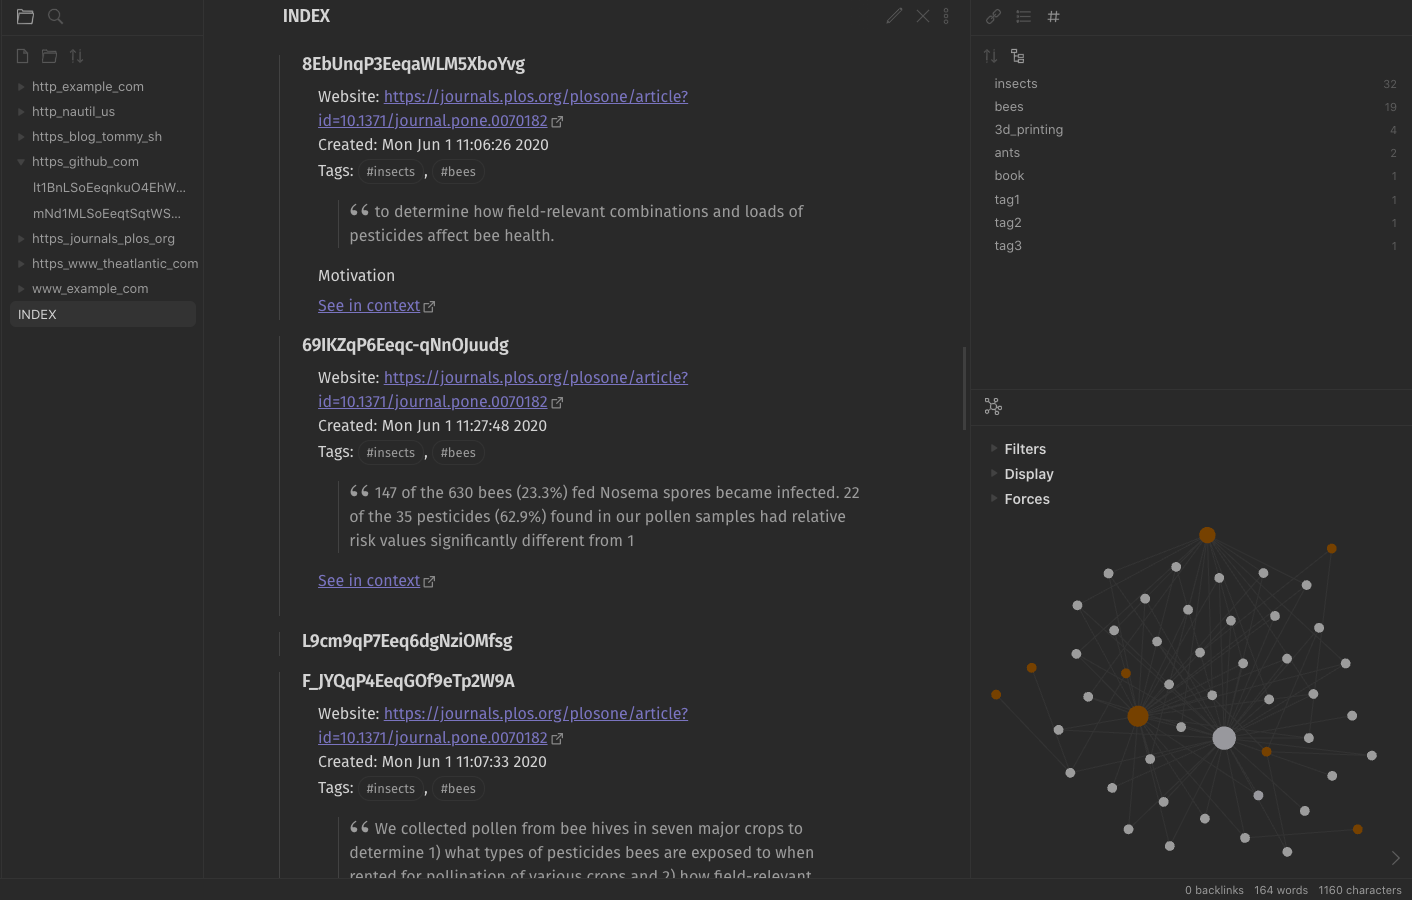
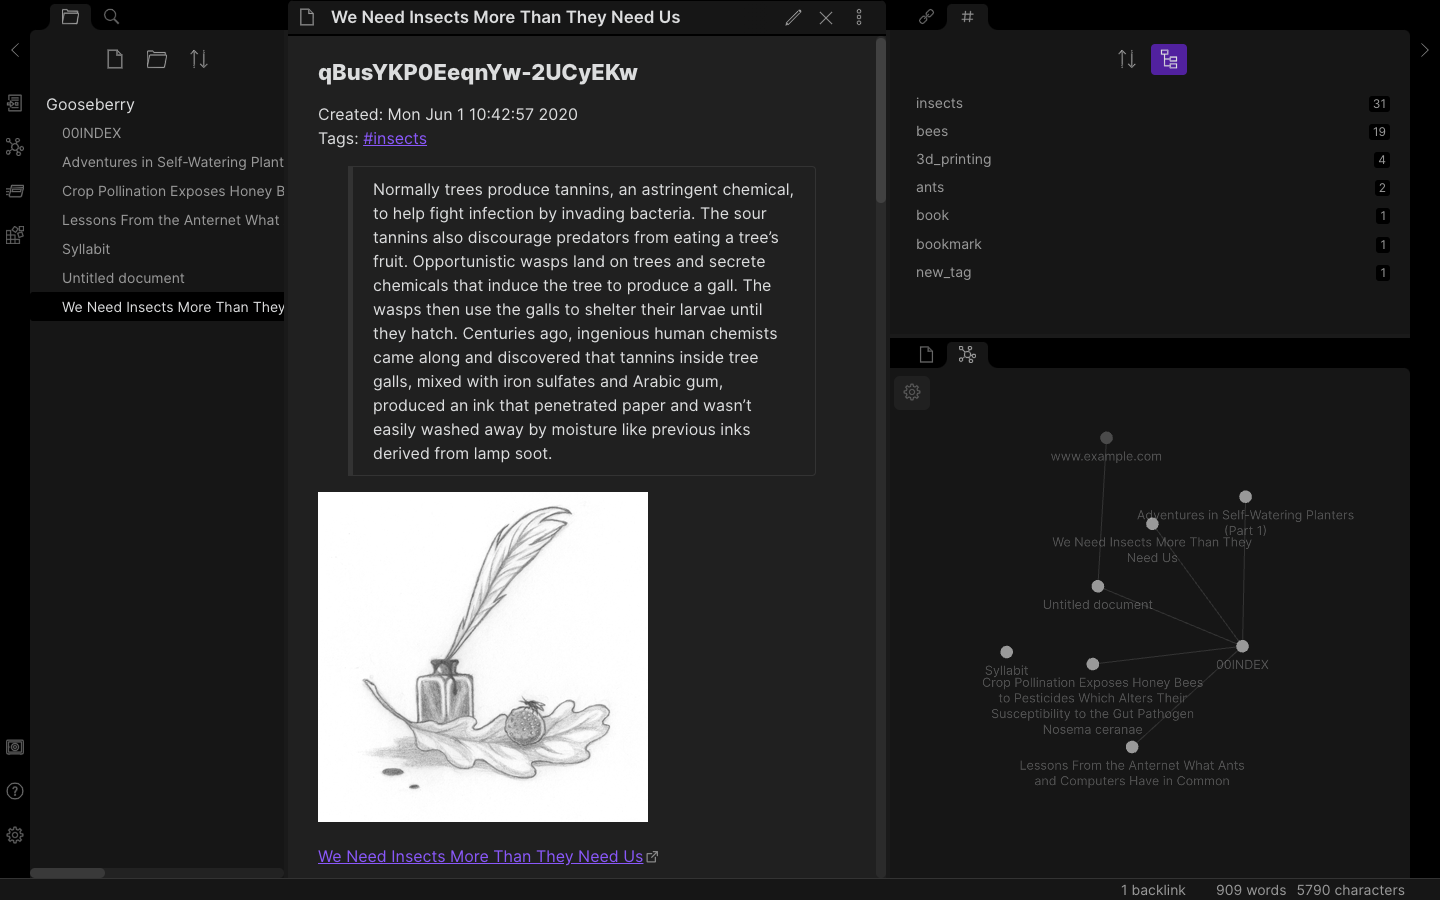
docs(kb): document title option

diff --git a/README.md b/README.md
@@ -104,7 +104,7 @@ Then ran `gooseberry make` to make an `mdBook` style wiki which I could then ope
 
 ![Tag page example](data/images/wiki.png)
 
-Or an Obsidian style wiki, with annotations grouped into folders based on their base URI
+Or an Obsidian style wiki, with annotations grouped into folders based on the document/web-page title
 
 ![Obsidian example](data/images/obsidian_example.png)
 
@@ -170,6 +170,7 @@ The following keys can be used inside the template
 * `{{ uri }}` - Annotation URI
 * `{{ base_uri }}` - Base website of URI, i.e just the protocol and domain.
     * e.g. https://github.com/rust-lang/cargo?asdf becomes https://github.com/
+* `{{ title }}` - Title of webpage/article/document
 * `{{ incontext }}` - Link to annotation in context (opens the Hypothesis sidebar and focuses on the annotation)
 * `highlight` - List of selected/highlighted lines from document (split by newline)
 * `{{ text }}` - The text content of the annotation body
@@ -276,6 +277,7 @@ The available options are:
 * Tag - Groups annotations by tag
 * URI - Groups annotations by their URI
 * BaseURI - Groups annotations by their base URI
+* Title - Group annotations by the title of their webpage/article/document
 * ID - Groups annotations by annotation ID.
 
 Multiple hierarchies combined make folders and sub-folders, with the last entry defining pages.
@@ -298,6 +300,7 @@ The available options are:
 * Tag - Sorts by tag (multiple tags are considered as "tag1,tag2,tag3" for sorting)
 * URI
 * BaseURI
+* Title
 * ID
 * Created
 * Updated
